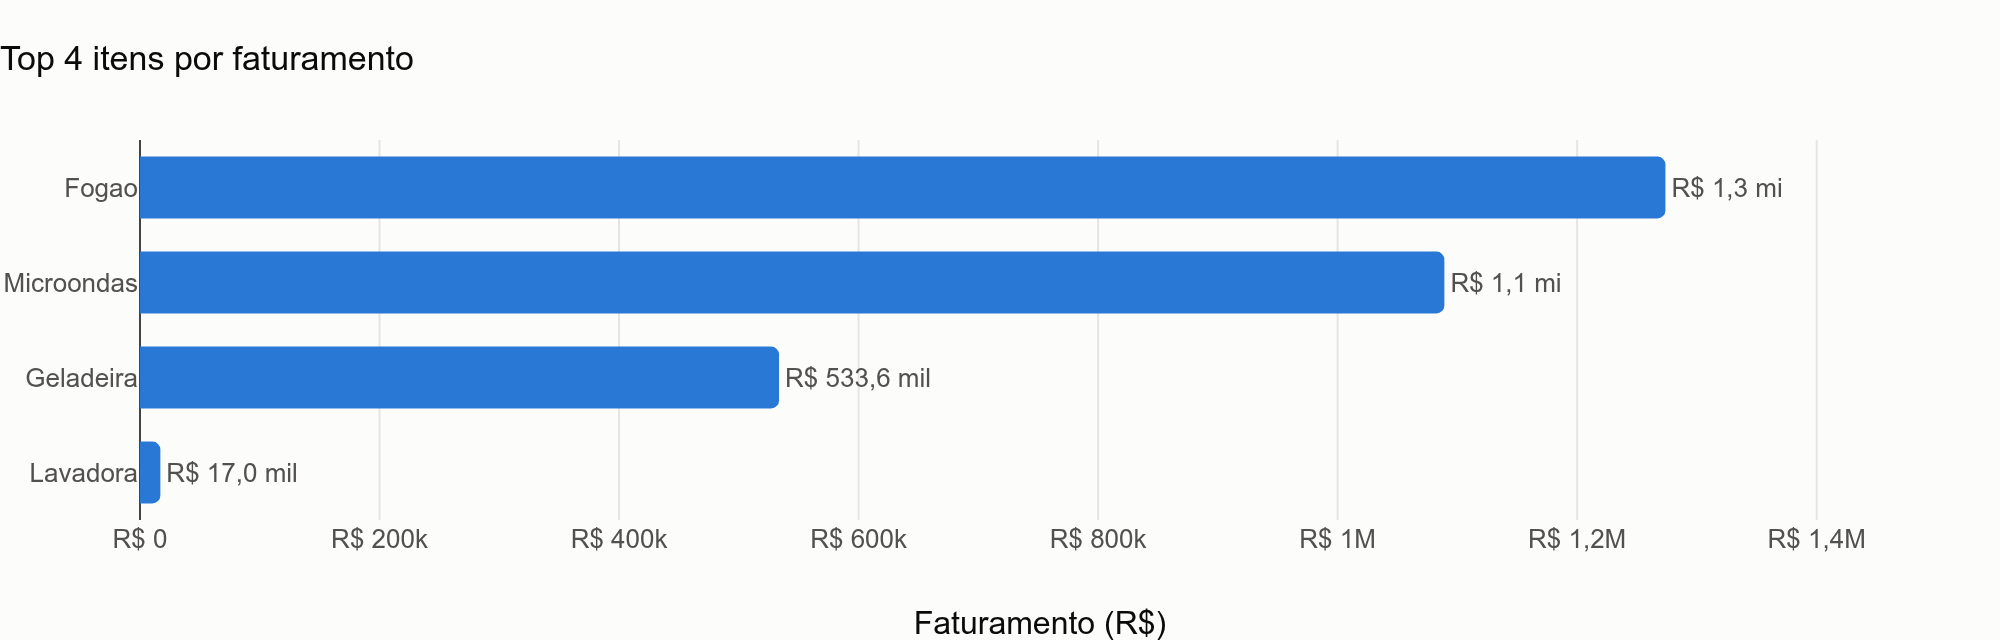
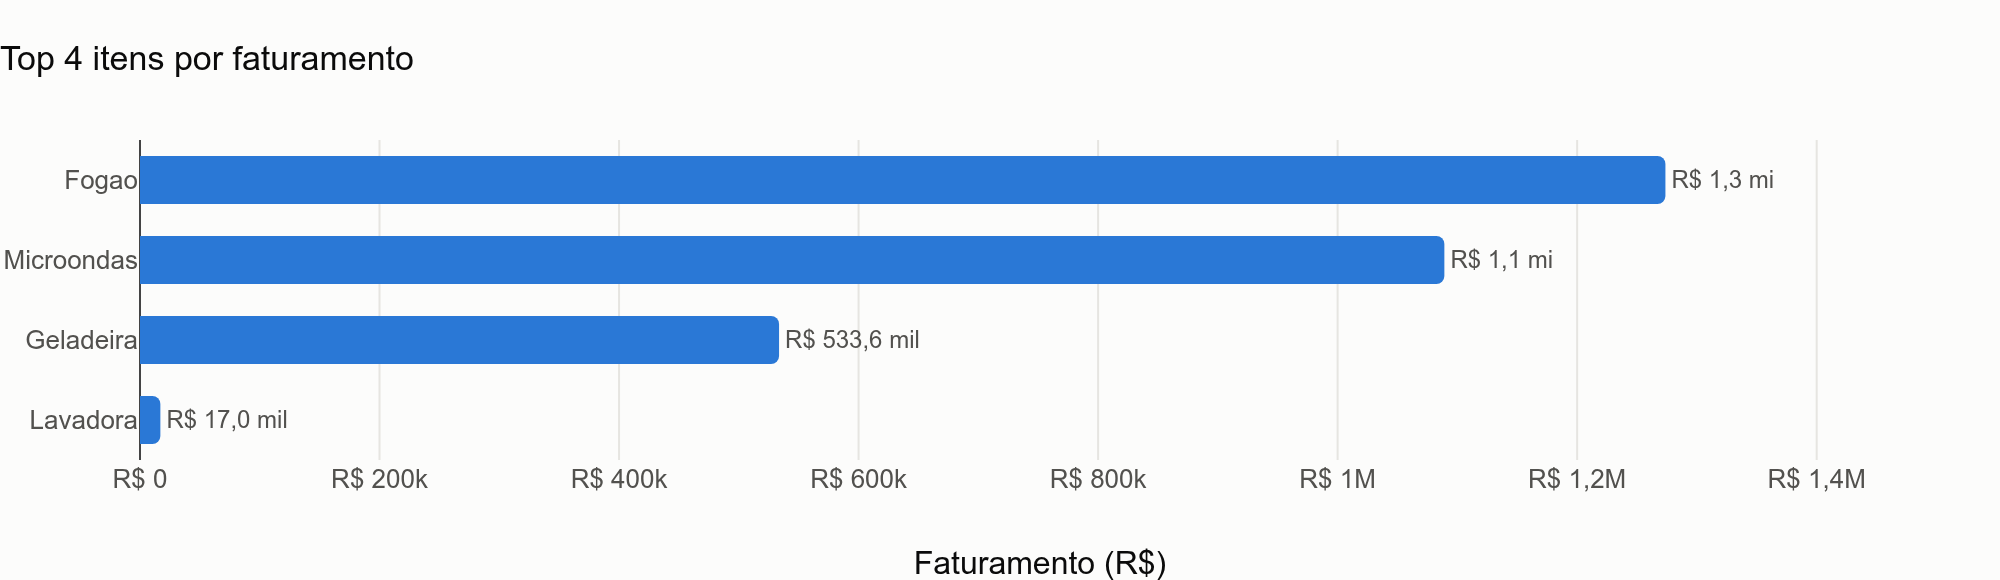
Nova estrutura

diff --git a/src/graficos.py b/src/graficos.py
@@ -2,12 +2,17 @@
 # Autor.........: Cristian Matias de Souza
 # Cargo/Nível...: Analista de Dados (N3)
 # Criado em.....: 19/08/2026 22:26
-# Versão........: 1.0
+# Alterado em...: 20/08/2026 08:55
+# Versão........: 1.1
 # -----------------------------------------------------------------------------
 # Descrição.....: Camada de visualização. Cada função recebe um DataFrame já
 #                 agregado e devolve uma Figure do Plotly.
 #                 Regra da camada: não lê arquivo, não agrega e não chama
 #                 .show() — quem decide o destino da figura é o main.py.
+# Histórico.....: 1.0 - os quatro gráficos e o template compartilhado.
+#                 1.1 - espessura das barras calculada em pixels (era bargap
+#                       no olho), com a altura derivando da contagem; região
+#                       passou a barras horizontais pela mesma regra.
 # Dependências..: plotly, pandas
 # =============================================================================
 
@@ -48,6 +53,25 @@ pio.templates['pedidos'] = go.layout.Template(
 pio.templates.default = 'pedidos'
 
 
+# --- Geometria das barras ---------------------------------------------------
+# O Plotly não aceita espessura em pixels: ele divide o espaço disponível em
+# faixas iguais (uma por categoria) e o `bargap` diz quanto de cada faixa fica
+# vazio. Fixando a faixa e a espessura desejada, o bargap vira conta — e a
+# barra para de engordar quando há poucas categorias.
+ESPESSURA_BARRA = 24      # px: acima disso a barra vira bloco de cor
+PASSO_CATEGORIA = 40      # px por faixa; a sobra (16px) é o respiro entre barras
+BARGAP = 1 - ESPESSURA_BARRA / PASSO_CATEGORIA
+
+# Somatório das margens verticais do template (t=70 + b=60). Entra no cálculo
+# da altura para que o PASSO_CATEGORIA valha na área de plotagem, não no
+# tamanho total da figura.
+MARGENS_VERTICAIS = 130
+
+def _altura_para(n_categorias: int) -> int:
+    """Altura total da figura para `n` barras horizontais, em pixels."""
+    return MARGENS_VERTICAIS + PASSO_CATEGORIA * n_categorias
+
+
 # Plotly formata datas em inglês; o mapa abaixo troca os rótulos do eixo.
 MESES_PT = ['jan', 'fev', 'mar', 'abr', 'mai', 'jun',
             'jul', 'ago', 'set', 'out', 'nov', 'dez']
@@ -75,29 +99,42 @@ def _folga_direita(fig: go.Figure, valores: pd.Series) -> None:
 
 
 def grafico_vendas_por_regiao(df: pd.DataFrame) -> go.Figure:
-    """Barras verticais: faturamento por região, já ordenado pela análise."""
+    """Barras horizontais: faturamento por região, da maior para a menor.
+
+    Deitado por geometria, não por causa do texto: com três categorias, uma
+    barra em pé receberia uma faixa de ~270px e ficaria fina no meio do vazio.
+    Na horizontal a faixa é a altura dividida pelas categorias, que o próprio
+    gráfico define — então a regra dos 24px vale aqui igual aos outros.
+    """
+    dados = df.sort_values('Total')   # menor embaixo -> maior no topo
     fig = go.Figure(
         go.Bar(
-            x=df['Regiao'],
-            y=df['Total'],
+            x=dados['Total'],
+            y=dados['Regiao'],
+            orientation='h',
             marker_color=AZUL,
-            marker_cornerradius=4,       # topo arredondado, base na linha zero
-            text=_formatar_reais(df['Total']),
+            marker_cornerradius=4,
+            text=_formatar_reais(dados['Total']),
             textposition='outside',
-            textfont=dict(color=TEXTO_SECUNDARIO),
-            hovertemplate='<b>%{x}</b><br>Faturamento: R$ %{y:,.2f}<extra></extra>',
+            textfont=dict(color=TEXTO_SECUNDARIO, size=12),
+            # Sem isso o Plotly encolhe o rótulo para caber na espessura da
+            # barra — com 24px o texto fica ilegível.
+            constraintext='none',
+            cliponaxis=False,
+            hovertemplate='<b>%{y}</b><br>Faturamento: R$ %{x:,.2f}<extra></extra>',
         )
     )
     fig.update_layout(
         title='Faturamento por região',
-        yaxis_title='Faturamento (R$)',
-        xaxis_title=None,
-        # Com poucas categorias a barra fica larga demais e vira bloco de cor.
-        bargap=0.5,
+        xaxis_title='Faturamento (R$)',
+        yaxis_title=None,
+        height=_altura_para(len(dados)),
+        bargap=BARGAP,
     )
-    # Folga no topo para o rótulo da barra mais alta não encostar no título.
-    fig.update_yaxes(range=[0, df['Total'].max() * 1.12],
-                     tickprefix='R$ ', tickformat='~s')
+    fig.update_xaxes(showgrid=True, gridcolor=GRADE, tickprefix='R$ ',
+                     tickformat='~s')
+    fig.update_yaxes(showgrid=False)
+    _folga_direita(fig, dados['Total'])
     return fig
 
 
@@ -113,7 +150,11 @@ def grafico_vendas_por_vendedor(df: pd.DataFrame) -> go.Figure:
             marker_cornerradius=4,
             text=_formatar_reais(dados['Total']),
             textposition='outside',
-            textfont=dict(color=TEXTO_SECUNDARIO),
+            textfont=dict(color=TEXTO_SECUNDARIO, size=12),
+            # Sem isso o Plotly encolhe o rótulo para caber na espessura da
+            # barra — com 24px o texto fica ilegível.
+            constraintext='none',
+            cliponaxis=False,
             customdata=dados['Pedidos'],
             hovertemplate=('<b>%{y}</b><br>Faturamento: R$ %{x:,.2f}'
                            '<br>Pedidos: %{customdata}<extra></extra>'),
@@ -123,8 +164,8 @@ def grafico_vendas_por_vendedor(df: pd.DataFrame) -> go.Figure:
         title='Faturamento por vendedor',
         xaxis_title='Faturamento (R$)',
         yaxis_title=None,
-        height=max(320, 46 * len(dados)),   # cresce junto com a quantidade
-        bargap=0.35,
+        height=_altura_para(len(dados)),   # cresce junto com a quantidade
+        bargap=BARGAP,
     )
     fig.update_xaxes(showgrid=True, gridcolor=GRADE, tickprefix='R$ ',
                      tickformat='~s')
@@ -173,7 +214,11 @@ def grafico_top_itens(df: pd.DataFrame) -> go.Figure:
             marker_cornerradius=4,
             text=_formatar_reais(dados['Total']),
             textposition='outside',
-            textfont=dict(color=TEXTO_SECUNDARIO),
+            textfont=dict(color=TEXTO_SECUNDARIO, size=12),
+            # Sem isso o Plotly encolhe o rótulo para caber na espessura da
+            # barra — com 24px o texto fica ilegível.
+            constraintext='none',
+            cliponaxis=False,
             hovertemplate='<b>%{y}</b><br>Faturamento: R$ %{x:,.2f}<extra></extra>',
         )
     )
@@ -181,8 +226,8 @@ def grafico_top_itens(df: pd.DataFrame) -> go.Figure:
         title=f'Top {len(dados)} itens por faturamento',
         xaxis_title='Faturamento (R$)',
         yaxis_title=None,
-        height=max(320, 46 * len(dados)),
-        bargap=0.35,
+        height=_altura_para(len(dados)),
+        bargap=BARGAP,
     )
     fig.update_xaxes(showgrid=True, gridcolor=GRADE, tickprefix='R$ ',
                      tickformat='~s')

diff --git a/src/relatorio.py b/src/relatorio.py
@@ -47,8 +47,8 @@ RELATORIOS = [
     ('vendas_por_regiao',
      analise.vendas_por_regiao,
      graficos.grafico_vendas_por_regiao,
-     'Comparação direta entre as regiões atendidas. A altura da barra é o '
-     'faturamento acumulado em todo o período.'),
+     'Comparação direta entre as regiões atendidas. O comprimento da barra é '
+     'o faturamento acumulado em todo o período.'),
     ('vendas_por_vendedor',
      analise.vendas_por_vendedor,
      graficos.grafico_vendas_por_vendedor,

diff --git a/README.md b/README.md
@@ -88,7 +88,7 @@ Pedidos/
 | `src/carga.py` | **Camada de carga.** Função `carregar_pedidos()`: valida a existência do arquivo, lê o CSV, converte `DataPedido` para `datetime` e cria a coluna derivada `Total` (`Unidades × PrecoUnidade`). Aceita um caminho opcional, o que permite apontar para outro CSV (recorte, arquivo de teste) sem alterar o módulo. |
 | `src/analise.py` | **Camada de análise.** Quatro funções puras que recebem o DataFrame e devolvem uma agregação: `vendas_por_regiao()`, `vendas_por_vendedor()`, `vendas_por_mes()` e `top_itens(n=5)`. Nenhuma delas lê arquivo nem desenha gráfico. |
 | `src/relatorio.py` | **Camada de entrega.** Duas coisas: o catálogo `RELATORIOS` — a fonte única sobre o que entra na entrega, em que ordem e com que texto de leitura — e `montar_relatorio()`, que junta os gráficos, os KPIs e o cabeçalho em uma página HTML autocontida. Devolve a string; quem grava é quem chamou. `construir(df)` roda o catálogo inteiro sobre qualquer recorte do DataFrame. |
-| `src/graficos.py` | **Camada de visualização.** Uma função por gráfico, cada uma recebendo um DataFrame já agregado e devolvendo uma `Figure` do Plotly. Define o template visual compartilhado (`pedidos`): paleta, tipografia, grade discreta e separadores no padrão brasileiro (vírgula decimal). Helpers internos cuidam de rótulos de mês em português (`jun/16`) e valores curtos em reais (`R$ 24,5 mil`). |
+| `src/graficos.py` | **Camada de visualização.** Uma função por gráfico, cada uma recebendo um DataFrame já agregado e devolvendo uma `Figure` do Plotly. Define o template visual compartilhado (`pedidos`): paleta, tipografia, grade discreta e separadores no padrão brasileiro (vírgula decimal). Define também a geometria das barras — `ESPESSURA_BARRA` e `PASSO_CATEGORIA`, em pixels — de onde saem o `bargap` e a altura de cada figura. Helpers internos cuidam de rótulos de mês em português (`jun/16`) e valores curtos em reais (`R$ 24,5 mil`). |
 | `MetodosPathlib.py` | **Script de estudo, independente do pipeline.** Explora os métodos de `pathlib` (`exists`, `stem`, `suffix`, `stat`, `glob`, `with_name`, `with_suffix`, `mkdir`) aplicados ao dataset. Serve como material de referência e não é importado por nenhum outro módulo. |
 | `requirements.txt` | Dependências do projeto: `pandas`, `plotly`, `kaleido` e `dash`. |
 | `.gitignore` | Mantém fora do repositório o ambiente virtual (`.venv/`), configurações da IDE (`.idea/`), caches (`__pycache__/`) e os HTML gerados (`Saida/*`), abrindo exceção para os PNG do README (`!Saida/img/`). |
@@ -117,7 +117,7 @@ Pedidos/
 | Arquivo em `Saida/` | Gráfico | Leitura |
 |---|---|---|
 | `relatorio.html` | **Os quatro juntos** | O entregável: cabeçalho com o período, faturamento total em destaque, quatro KPIs de apoio e os gráficos com uma nota de leitura cada. |
-| `vendas_por_regiao.html` | Barras verticais | Faturamento por região, do maior para o menor. |
+| `vendas_por_regiao.html` | Barras horizontais | Faturamento por região, do maior para o menor. |
 | `vendas_por_vendedor.html` | Barras horizontais | Faturamento por vendedor; o hover mostra também a quantidade de pedidos. Nomes longos leem melhor deitados. |
 | `vendas_por_mes.html` | Linha com marcadores | Evolução mensal do faturamento, com crosshair unificado no eixo x. |
 | `top_itens.html` | Barras horizontais | Ranking dos itens que mais faturaram. |
@@ -230,6 +230,14 @@ autenticação antes de expor a URL.
 - **`plotly.js` embutido uma vez.** No relatório consolidado o bundle entra
   só na primeira figura (`include_plotlyjs` ligado apenas nela). É o que
   transforma 19 MB em 4,9 MB sem perder a leitura offline.
+- **Espessura de barra em pixels, não no olho.** O Plotly só aceita `bargap`
+  (a fração vazia de cada faixa), então a barra engorda sozinha quando há
+  poucas categorias. Fixando faixa (40px) e espessura (24px), o `bargap` vira
+  conta e a altura da figura passa a derivar da contagem de barras.
+- **Três gráficos de barra, todos deitados.** O de região era vertical, mas
+  com três categorias cada barra recebia uma faixa de ~270px e ficava fina no
+  meio do vazio. Na horizontal a faixa depende da altura, que o próprio
+  gráfico define — a mesma regra vale para os três, sem exceção.
 - **Sem legenda nos gráficos.** Todas as séries são únicas: o título já diz o
   que está sendo medido, e a legenda seria ruído.
 
